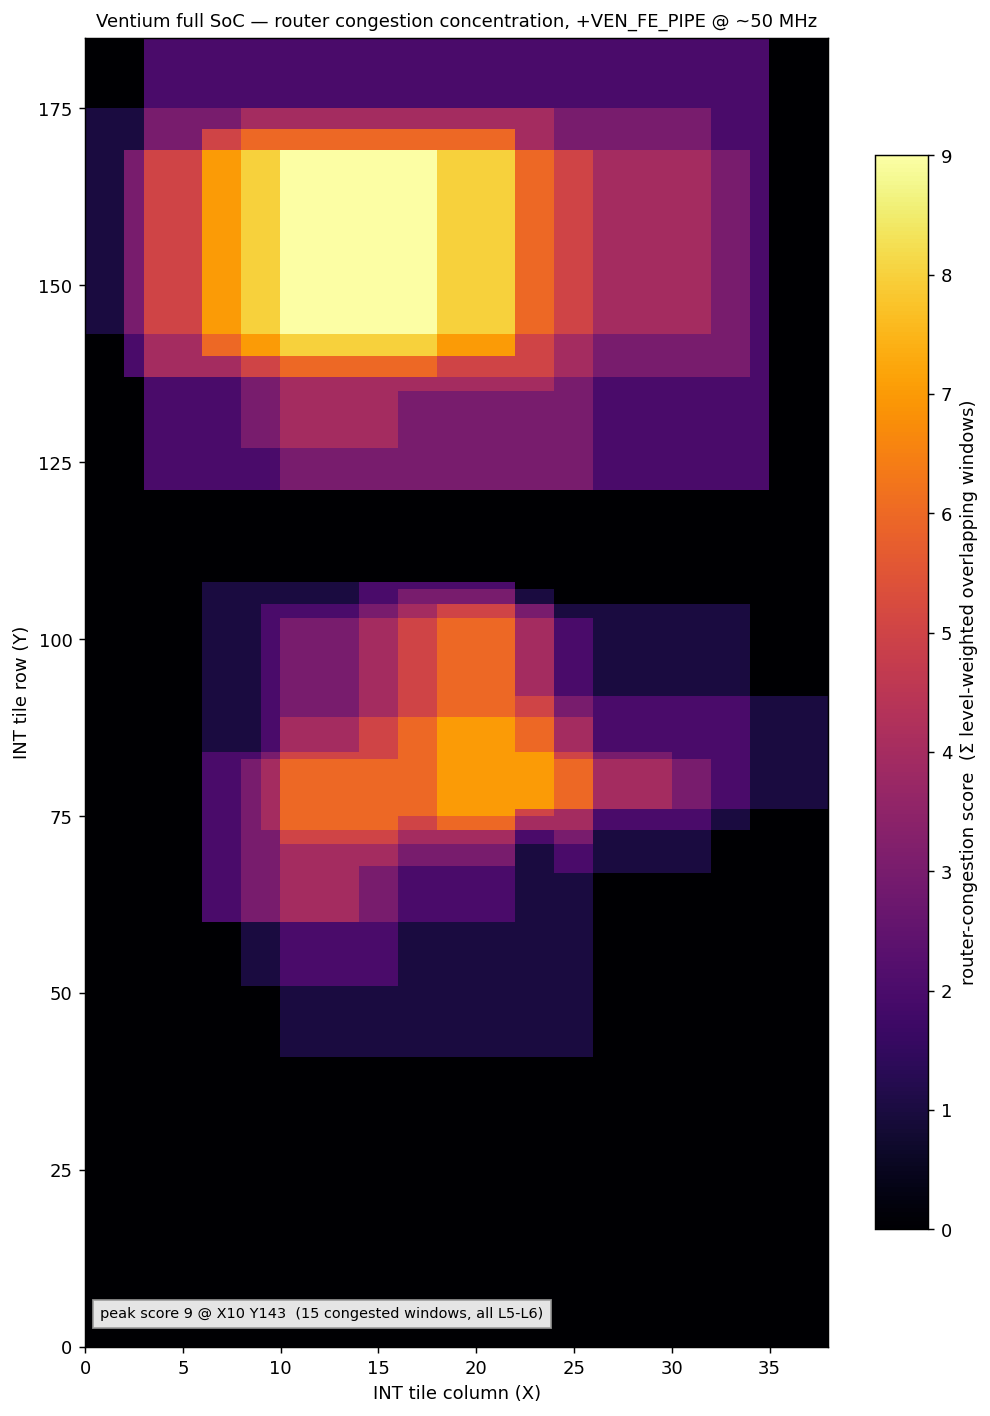
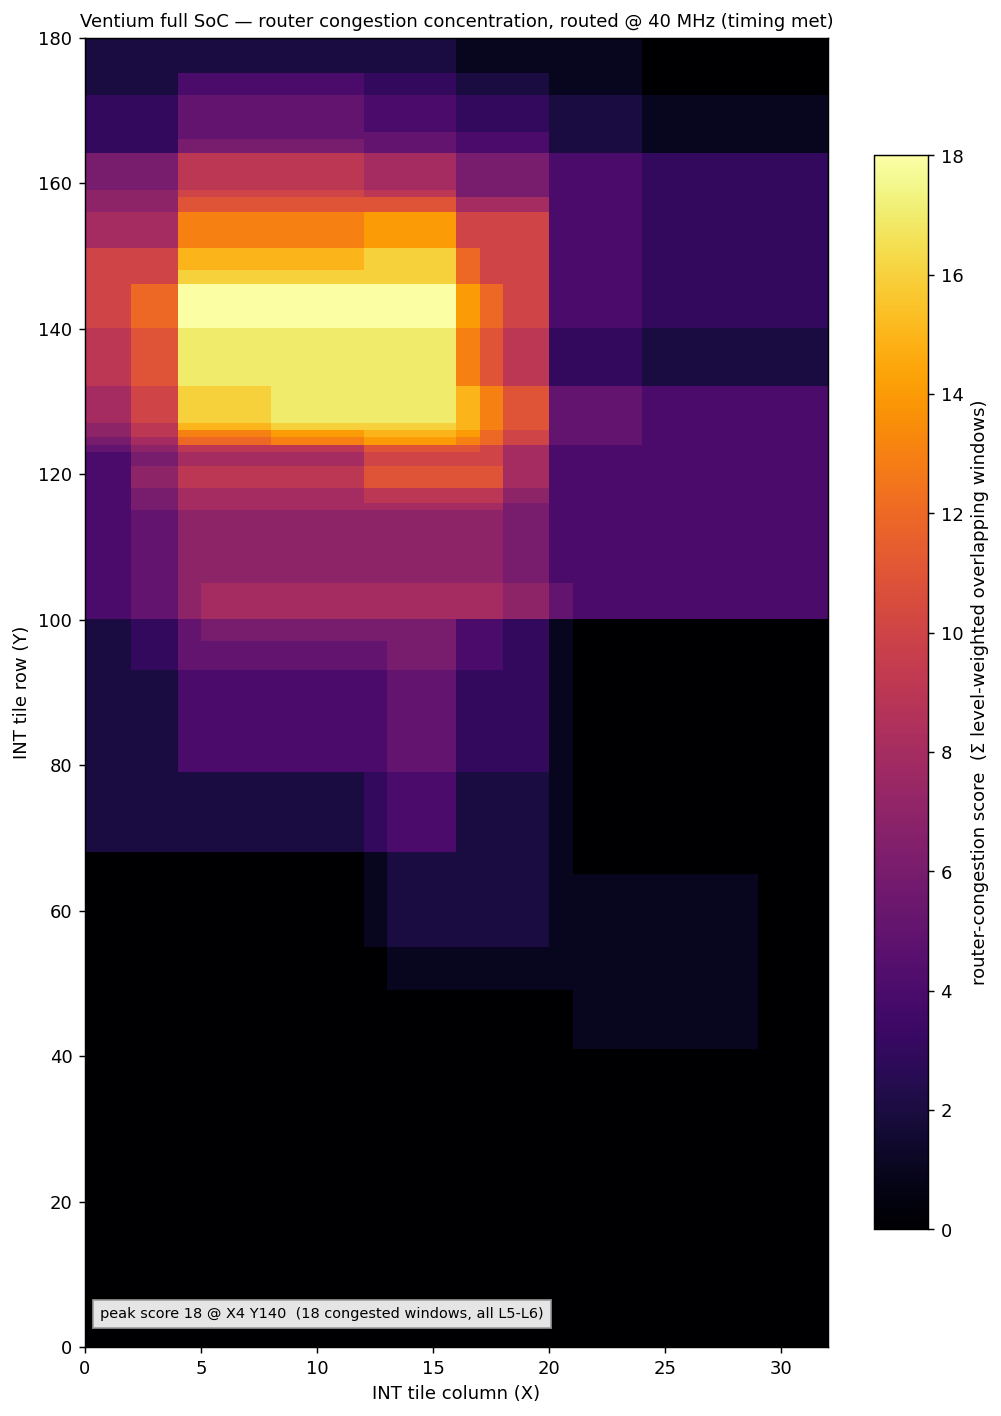
docs: regenerate device views from the linux_40 checkpoint + thorough README update
Device views (same filenames, rendered from the routed 40 MHz linux_40
checkpoint, 155,015 placed cells): full-SoC hierarchy-colored; the CPU-core+FPU-
only view (memory/BD grayed; per-block legend: core spine 40,852 cells, I-cache
22,062, BTB 19,564, FP datapath 16,546, uop-cache 14,757, ...); the outside
(memory/PS/BD) view; placement-density and router-congestion maps (18 L5-L6
windows, icache-dominated — the half-cache/IC-BRAM config moved the pressure).

README (195 -> 301 lines): the 24-gate differential battery; the interactive-
FreeDOS milestone with the verbatim ver/dir screen (195M retired insns / 1.51B
clocks) and the input path; the SS-default bug-archaeology note; the precisely-
scoped F4 status (QEMU-validated disk chain, RTL run in progress — no RTL-Quake
claim); a new KV260 section with the linux_40 utilization/timing table (LUTs
94,712 = 80.9%, FFs 13.3%, BRAM 27.8%, DSP 31, WNS +0.104 ns @ 40 MHz), the
PS-as-I/O-processor architecture (R_INTR seam, --dos routing, hid_kbd, fb_vnc,
venclk), and both SD images (Kria Ubuntu 24.04 primary + baremetal fallback);
M7 Quake lock-step number corrected to 1.83M insns with its boundary caveat;
free-run FPS estimates re-anchored to 40 MHz and flagged as cycle-model
estimates. Hardware status stated plainly throughout: no board attached;
everything structurally verified in simulation/implementation only.

fpga-synthesis.md: the full-SoC section now narrates the 50->40 MHz decision
[…]

diff --git a/README.md b/README.md
@@ -36,11 +36,21 @@ level clone (see [`docs/isa-coverage.md`](docs/isa-coverage.md)
   `POPF`/`IRET` `#DB`) reproduced behind a default-off flag, self-checked against
   the Intel Specification Updates (never against QEMU, which computes correctly).
 - **Macro-workload lock-step (M7)** -- real programs run on the RTL in lock-step
-  vs QEMU: **Quake** is bit-exact over **~1.1M instructions**, and a **Windows 95
+  vs QEMU: **Quake** is bit-exact through **~1.83M instructions** (to a documented
+  QEMU-environment boundary, not a CPU divergence — see below), and a **Windows 95
   boot** is bit-exact to **213,859 instructions** (input-replay: QEMU is the golden
   + environment, the RTL is the checked CPU). This found + fixed **6 real ISA gaps**
   (`TEST r/m,imm` mem-form, `call gs:[]`, `LOCK CMPXCHG`, `IN`/`OUT`, `CPUID`, `INS`).
-- **FPGA full-SoC implementation:** WIP - Targeting KV260 (Xilinx ZU5EV equivalent). The L1$ and peripherals are partially implemented in the PS to save FPGA resources, but the core + FPU are fully RTL.
+- **A self-contained PC SoC (M8/M9/F-track):** PIC/PIT/RTC/i8042/port92/UART/VGA/
+  IDE/DMA/FDC device models, pinned to `qemu-system-i386` by per-record differential
+  gates (`verif/soc/run-all-soc-gates.sh`: **24 gates** = 23 SoC differentials + the
+  external `test386` tester; plus a standalone SeaBIOS boot gate). The **unmodified
+  QEMU SeaBIOS `bios.bin`** completes its full POST on the RTL and boots **FreeDOS to
+  an interactive `C:\>` prompt** — in Verilator simulation (see below).
+- **FPGA full SoC (KV260):** a routed, deployable **40 MHz** bitstream for the Kria
+  KV260 (XCK26) — core + FPU + L1/AXI fully in the PL, the slow peripherals emulated
+  by the PS A53 under Linux. **No board has been attached yet** — the image is
+  structurally verified (timing/DRC/unit gates), not hardware-tested.
 - **PipeViz Visualizer:** A Custom PyQt5-based trace visualizer.
 
 ## Layout
@@ -64,9 +74,12 @@ verif/
                       free-run syscall-emulation; coremark/whetstone/.../Quake)
   sys/                bare-metal system-mode tests + qemu-system goldens
   m7/                 Quake + Win95 lock-step harnesses
-  soc/                device-module unit self-checks
-  bus/                biu_p5 standalone self-consistency + 19 SVA gate
-  errata/             errata self-checks (make m6)
+  soc/                the SoC differential gates (run-all-soc-gates.sh) + unit checks
+  bus/ errata/        biu_p5 standalone + 19 SVA gate; errata self-checks (make m6)
+fpga/               KV260 build scripts (BD + impl → bit/.xsa), the microSD
+                    boot-image pipeline (sd/), timing + architecture notes
+sw/                 PS-side software — ven_soc_app + the HID/VNC daemons (ps/),
+                    the PS-offload peripheral C models (ps_periph/)
 docs/               trace-format.md (the producer/consumer contract), the
                     m*-spec.md design docs, and sphinx/ (the live catalog)
 3rd-party/          opl3_fpga submodule (OPL3 FM synth, for a SoundBlaster card)
@@ -83,9 +96,11 @@ make verify-sys      # system-mode gates (pseg/pmode/ppage/pintr/pfault/pcpl/
                      # ptask/pdebug/pv86 + psmm structural)
 make m1 m2 m3 m4 m5 m6    # per-milestone gates (m3 = x87, m6 = errata behind a flag)
 
-# macro-workload lock-step (oracle-bound prefixes; see docs/m7-lockstep-spec.md):
-bash verif/m7/run-quake-lockstep.sh 1000000     # Quake, 1M-instruction prefix
-bash verif/m7/win95/run-win95-cosim.sh          # Win95 boot prefix
+bash verif/soc/run-all-soc-gates.sh   # the SoC battery: 24 gates (23 per-record
+                                      # qemu-system differentials + test386)
+
+bash verif/m7/run-quake-lockstep.sh 1000000     # macro lock-step (Quake prefix;
+bash verif/m7/win95/run-win95-cosim.sh          #  + Win95 boot — see docs/m7-*)
 
 cd rtl && verilator --lint-only -sv -Wall -Wno-UNUSED -f ventium.f   # lint
 ```
@@ -104,7 +119,10 @@ two ways, both graded against QEMU `-cpu pentium`:
   every retired instruction's full architectural + x87 state is compared vs the
   QEMU gdbstub golden, deep (tens of millions of instructions per config) and
   parallel, with zstd-compressed goldens streamed through `compare_stream.py`
-  (O(1) disk + memory). **18/18 configs are bit-exact (EQUIVALENT).**
+  (O(1) disk + memory). **18 of the 19 configs are bit-exact (EQUIVALENT)**; the
+  19th, a 30M-instruction Quake prefix, is bit-exact through **1.83M instructions**,
+  up to a documented environmental boundary (musl's netlink interface enumeration
+  branches on the host QEMU PID — producer nondeterminism, not a CPU divergence).
 - **Free-run to completion** (`--emulate-syscalls`, `verif/bench/run-freerun.sh`):
   the testbench emulates `int 0x80` directly, so the RTL runs a whole program at
   full Verilator speed, graded by its output vs QEMU-native. **coremark** runs its
@@ -127,11 +145,58 @@ sit lower (multi-cycle `imul`/`FSIN`, U-pipe-only FP, branch mispredicts).
 
 **Quake** (the TyrQuake P5 build) also free-runs on the RTL: it boots fully (pak
 load, palette, renderer) and renders its console frame via the software rasteriser.
-At the FPGA target of **66 MHz** the cycle model estimates **~15 FPS** at 320×200
-(cycles-per-frame), in line with a real Pentium-66. Getting all this clean cost
+From cycles-per-frame the cycle model estimates **~15 FPS** at 320×200 at 66 MHz
+(in line with a real Pentium-66) — **~9 FPS** at the KV260 image's 40 MHz; both are
+cycle-model estimates, not hardware measurements. Getting all this clean cost
 **three fixes**: a CET `endbr32` / multi-byte-NOP decode gap (a real RTL miss,
 regression-tested by `t_endbr`) and two QEMU-golden producer-fidelity bugs
 (`clock_gettime64` capture width, the i386 `recvfrom` syscall number).
+
+## Booting the real PC stack: SeaBIOS → FreeDOS (RTL, Verilator simulation)
+
+The F3 milestone: the **unmodified QEMU SeaBIOS** `bios.bin` (rel-1.16.3) runs its
+entire power-on self-test on the RTL (real → 32-bit protected mode → back, ~5.55M
+instructions), chain-loads via `INT 13h` from the `ven_ide` disk model, and boots
+**FreeDOS** (kernel ke2045, FreeCom 0.86) to an **interactive prompt**. Keystrokes
+(set-1 scancodes injected into the i8042 model by the testbench) traverse the full PC
+input path — i8042 → IRQ1 → 8259 PIC → `INT 9` → BIOS keyboard buffer → FreeCom — and
+the typed commands run through `INT 21h` → FAT16 → IDE, with output drawn by SeaVGABIOS
+`INT 10h` into text VRAM at `0xB8000`. The actual screen, dumped from VRAM at
+**195,000,000 retired instructions / 1,511,243,707 clocks**:
+
+```
+VGA BIOS initialized.
+C:\>ver
+
+FreeCom version 0.86 - WATCOMC - XMS_Swap [Dec 30 2024 22:10:51]
+C:\>dir
+ Volume in drive C is FREEDOS
+ Volume Serial Number is 1C6C-E236
+ Directory of C:\
+
+KERNEL   SYS        48,856  06-11-26 10:55p
+COMMAND  COM        87,772  06-11-26 10:55p
+AUTOEXEC BAT             9  06-12-26 12:24p
+VGAINIT  COM           113  06-12-26  3:32p
+VGABIOS  BIN        38,912  06-12-26 12:24p
+         5 file(s)        175,662 bytes
+         0 dir(s)       2,845,696 bytes free
+C:\>
+```
+
+This is **simulation, not hardware** — and it earned its keep: the boot stalled at
+6.844M instructions on a corrupted kernel, root-caused to the 32-bit ModRM EA decode
+missing the SDM's **SS-segment defaults** for `ESP`/`EBP`-based addressing — SeaBIOS's
+IRQ trampoline `mov ds,[esp+8]` read `DS:` garbage and saved an interrupt frame over
+the freshly loaded `kernel.sys`. QEMU never expresses it (its PIT takes ~zero IRQs in
+that window), and the fix is invisible to every flat-segment gate — the whole battery
+(77/77 + the 24 SoC gates) stayed green throughout.
+
+**F4 (DOS Quake) is in progress — no RTL-Quake claim is made.** A Quake 1.06 shareware
+disk image (official `quake106.zip`: `QUAKE.EXE` + CWSDPMI + `PAK0.PAK` on FreeDOS/FAT16)
+boots fully unattended **under qemu-system** to the in-game `demo1` timedemo — that
+validates the disk/asset/DPMI chain, *not the RTL*. The RTL run of the same image is
+underway and still mid-boot, with no rendered frame yet.
 
 ## FPGA synthesis (KV260)
 
@@ -150,46 +215,87 @@ Headline OOC `core` results (`xck26-sfvc784-2LV-c`, `+VTM_NO_DPI`, 15 ns target)
 | `+VEN_FP_PIPE2` (2-stage FADD commit) | 76.7k (65%) | 25.8k | 40 | 31 | 78.4 | 63.0 MHz | `u_bcd` (FBSTP) engine |
 | **+ BCD ÷100 step** (`ven_bcd`, opt-in `+VEN_BCD_DIV100`) | 76.6k (65%) | 25.8k | 40 | 31 | 80.6 | **65.3 MHz** | µop-cache fill→front-end |
 
-Three architectural walls, broken in turn. (1) The **single-cycle x86 byte-window
-decoder** (`u_icache` MUXF cluster) — the µop-cache deletes it (predecode-on-fill, slot
-reads), the first config to route legally. (2) The **latency-1 ~80-level FADD
-deferred-commit cone** (`fpp → fx_round_pack → fpr`): `+VEN_FP_PIPE2` splits it across the
-FP scoreboard's existing 3-cycle latency window (the result still publishes at issue+lat),
-so it is **cycle-safe** — `make verify` GREEN, the M5 FP cycle bands held, default build
-byte/cycle-identical (`make verify-fppipe2`). (3) The **FBSTP BCD engine** (`u_bcd`): one
-÷100 per step instead of two chained ÷10 halves its cone — bit-exact + cycle-neutral
-(`make verify-bcd`). That takes the K26 to **65.3 MHz** (`ExtraNetDelay_high`); the wall is
-now the µop-cache fill→front-end cluster (route-bound — the diffuse-congestion case the
-docs flag for in-context floorplanning).
+Three architectural walls, broken in turn: the **single-cycle x86 byte-window decoder**
+(deleted by the µop-cache — predecode-on-fill, the first config to route legally); the
+**latency-1 ~80-level FADD deferred-commit cone** (split **cycle-safely** across the FP
+scoreboard's existing 3-cycle latency window by `+VEN_FP_PIPE2` — `make verify` GREEN, M5
+FP bands held, default build byte/cycle-identical); and the **FBSTP BCD engine** (one ÷100
+per step instead of two chained ÷10 — bit-exact + cycle-neutral). That takes the K26 core
+to **65.3 MHz**; the remaining wall is route-bound µop-cache fill→front-end congestion.
 
-**Full SoC, in-context → deployable bitstream.** The numbers above are out-of-context (the
-`core` alone). The actual KV260 image wraps the core + FPU with the L1/AXI memory subsystem
-(→ PS-DDR), the `ven_soc_axil` PS bridge, and the BD interconnect, placed against the PS8 and
-routed to a **bitstream + `.xsa`**. In context the **`eip`/TLB fetch cone** binds: the SoC will
-**not legally route** at 60 MHz (8766 node overlaps) until **`+VEN_FE_PIPE`** — a page-keyed
-micro-TLB that registers the current page's translation so steady-state fetch stops re-walking the
-TLB compare (1-cycle stall only on a page crossing; `ifdef`-gated, default build cycle-identical).
-With it, the full SoC routes clean at **WNS −3.195 ns → ~50.4 MHz** (the translate cone leaves the
-critical path; the new worst path is the same µop-cache fill→`eip` cluster, route-bound).
+**Full SoC, in-context → deployable bitstream.** The numbers above are out-of-context.
+The actual KV260 image adds the L1/AXI memory subsystem (→ PS-DDR), the `ven_soc_axil`
+PS bridge, and the BD interconnect, routed to a **bitstream + `.xsa`**. In context the
+`eip`/TLB fetch cone binds: the SoC does not legally route at 60 MHz until
+**`+VEN_FE_PIPE`** — a page-keyed micro-TLB (1-cycle stall only on a page crossing;
+`ifdef`-gated, default build cycle-identical) — after which it routes clean at **~50.4 MHz**.
 
-**Deployable clock = 50 MHz.** A 60 MHz full-SoC close is *not feasible on the XCK26* — the small
-ZU5EV die runs ~68–71 % LUT and the remaining wall is diffuse fill→`eip` routing congestion, not a
-cone P&R or floorplanning can shorten (the OOC ceiling is 65.3 MHz; the full SoC's extra L1/AXI + BD
-fabric costs the rest). So the board image targets **`pl_clk0` = 50 MHz**, which the `+VEN_FE_PIPE`
-build closes with positive margin. A larger part (e.g. the ZU15EG) would clear 60+; on the K26, 50 MHz
-is the deployable result.
+**Deployable clock = 40 MHz.** A 60 MHz full-SoC close is *not feasible on the XCK26* (the
+OOC ceiling is 65.3 MHz; the SoC's extra fabric leaves diffuse fill→`eip` congestion no
+floorplan clears). The FE_PIPE build closed 50 MHz until the F3 ISA-completeness work
+(16-bit ModRM EAs, FF-group far forms, interruptible `HLT`, real-mode IVT delivery) cost
+~3.5 ns on the high-fanout µop-cache fill net (WNS −3.225 ns, ~43 MHz achievable). The
+shipped image targets **`pl_clk0` = 40 MHz**, routed at **WNS +0.104 ns** (timing met); the
+PS owns the PL clock, and `venclk.sh` can step it 40 → 50 MHz on silicon with a firmware
+smoke test per step. A larger part (e.g. the ZU15EG) would clear 60+.
 
 ![Ventium full SoC placed on the KV260, colored by RTL module](docs/fpga-device-view-soc.png)
 
-📄 **Full results, device views, congestion maps, the full-SoC `+VEN_FE_PIPE` image, the ZU15EG +
-half-cache + FP_PIPE2 experiments, and methodology:** [`docs/fpga-synthesis.md`](docs/fpga-synthesis.md) ·
+📄 **Full results, device views (incl. the core-only crop
+[`fpga-device-view-soc-core.png`](docs/fpga-device-view-soc-core.png) and the non-core fabric
+[`-soc-outside`](docs/fpga-device-view-soc-outside.png)), congestion maps, the ZU15EG + half-cache +
+FP_PIPE2 experiments, and methodology:** [`docs/fpga-synthesis.md`](docs/fpga-synthesis.md) ·
 [`fpga/TIMING_PROBLEMS.md`](fpga/TIMING_PROBLEMS.md).
+
+## The KV260 board image
+
+The current deployable build (`fpga/build/kv260_soc_impl_linux_40/`, config = µop-cache +
+half-cache + FP_PIPE2 + FE_PIPE) is routed to a bitstream + `.xsa`, post-route:
+
+| Resource (XCK26) | Used | Available | Util |
+|---|---:|---:|---:|
+| CLB LUTs | 94,712 | 117,120 | 80.9 % |
+| CLB registers | 31,208 | 234,240 | 13.3 % |
+| Block RAM tiles | 40 | 144 | 27.8 % |
+| DSPs | 31 | 1,248 | 2.5 % |
+
+Timing at `pl_clk0` = **40 MHz** (25.000 ns): setup **WNS +0.104 ns**, hold WHS +0.008 ns,
+**0 failing endpoints** of 112,136; DRC carries advisory warnings only (DSP-pipelining
+suggestions). The design occupies 98.3 % of the CLBs — the diffuse-congestion regime
+described above. Reports (`timing_impl.rpt`/`util_impl.rpt`/`drc_impl.rpt`) are on disk.
+
+**Architecture: the PS as the I/O processor.** Only the latency-critical elements live
+in the PL: core + FPU, L1 + AXI master into the PS DDR (carveout at `REMAP_BASE =
+0x4000_0000`), and the `ven_soc_axil` control slave. The slow PC peripherals run as
+**C models on the A53 under Linux** — the same C models the `ps-cosims` gate holds to
+*C model == RTL == qemu*. `ven_soc_app --dos` routes the PIC, i8042 and VGA-register
+ports to the PS and injects interrupts through the `R_INTR` seam (the PS stages
+{vector, level}; the core's INTA strobe auto-clears it and latches a sticky `INTA_SEEN`
+bit, mirroring the 8259's INTA boundary); `hid_kbd` turns USB-keyboard evdev events
+into set-1 scancodes; `fb_vnc` serves the mode-13h framebuffer + live DAC palette over
+VNC (a dependency-free RFB 3.3 server).
+
+Two flashable microSD images exist:
+
+- **Primary — Kria Ubuntu 24.04** (`ventium_kv260_ubuntu.img`, built out-of-repo in
+  `ventium-refs/kria-ubuntu/`): the stock Kria server image with the Ventium package
+  injected (bitstream + `ven_soc_app`/`hid_kbd`/`ven_fb_vnc`/`venclk.sh`); SSH and
+  USB-HID work out of the box.
+- **Baremetal** (`fpga/sd/`, no PetaLinux): `BOOT.BIN` = FSBL + PMUFW + bitstream +
+  `ven_boot.elf` on FAT32; an IDENT smoke test, then the gate-proven COM1-banner
+  firmware on the UART1 (MIO36/37) console.
+
+**Hardware status, stated plainly: no board has been attached.** Everything in this
+section is *structural* evidence (routed timing, DRC, the unit-gated register seam,
+host-smoke-tested daemons) — none of it has yet executed on silicon.
 
 ## Status
 
-The planned roadmap is **complete** — M0–M6, the M2S.0–.6 system-mode track + the
-M2S.4b hardware task switch, M5B + its M5B-int integration, the M6B system errata,
-and the R1/R2 RTL refactors. **M7** (macro-workload lock-step — Quake + Win95)
-landed, and **M8** (the self-contained SoC) is in progress. See
-[`PROGRESS.md`](PROGRESS.md) and [`PROGRESS_Jun04.md`](PROGRESS_Jun04.md) for the
-full, dated detail.
+The original roadmap (M0–M6, the M2S system-mode track, M5B, M6B, R1/R2) is
+**complete**, as are **M7** (macro-workload lock-step), **M8–M9.5** (the
+self-contained PC SoC + first boot), **M11** (x87 transcendentals) and the
+benchmark stack (M13/M14). On the F-track, **F2** (boot firmware) and **F3**
+(interactive FreeDOS) are done *in Verilator simulation*, and the **40 MHz KV260
+board image** is built and structurally verified; **F4** (DOS Quake on the RTL) is
+in progress. See [`PROGRESS.md`](PROGRESS.md) and
+[`PROGRESS_Jun04.md`](PROGRESS_Jun04.md) for the full, dated detail.

diff --git a/docs/fpga-synthesis.md b/docs/fpga-synthesis.md
@@ -226,7 +226,7 @@ STRAT=fp2b_netdelay PLACE_DIR=ExtraNetDelay_high ROUTE_DIR=Explore`; `make verif
 > before `u_bcd` does — so the default leaves it off (back to two chained ÷10), keeping `u_bcd`
 > smaller where it isn't critical. Both forms are bit-exact (`make verify-bcd` either way).
 
-## Full SoC, in-context: the front-end pipeline (`+VEN_FE_PIPE`) → ~50 MHz
+## Full SoC, in-context: the front-end pipeline (`+VEN_FE_PIPE`) → the deployable image
 
 Everything above is **out-of-context** (the `core` alone, virtual I/O). The deployable image is
 the **full KV260 block design**: the core + FPU wrapped with the **L1/AXI memory subsystem**
@@ -273,18 +273,30 @@ is `u_uopcache/store_bmap → eip_reg[26]` (19.81 ns, **62 % routing** / 38 % lo
 **route-bound, not logic-bound** — diffuse fill→`eip` routing congestion at ~68–71 % LUT, not a cone
 P&R or floorplanning can shorten.
 
-**Decision: 50 MHz is the deployable target on the XCK26; 60 MHz is dropped as infeasible.** The
-OOC core ceiling is 65.3 MHz, but the full SoC's extra L1/AXI + BD interconnect spends the margin,
-and the residual congestion is diffuse (not a single cone), so no realistic in-context floorplan
-closes 60 on this small ZU5EV die. `pl_clk0` is set to **50 MHz** (`impl_kv260_soc.tcl`), which the
-`+VEN_FE_PIPE` build routes with positive WNS — a clean, timing-met board image. A larger part (the
-ZU15EG, which clears the OOC build comfortably) would reach 60+; on the K26, **50 MHz is the result
-we keep.**
+**Decision history: 60 MHz dropped as infeasible; 50 MHz closed; the F3 boot-ISA growth then
+moved the deployable to 40 MHz.** The OOC core ceiling is 65.3 MHz, but the full SoC's extra
+L1/AXI + BD interconnect spends the margin, and the residual congestion is diffuse (not a single
+cone), so no realistic in-context floorplan closes 60 on this small ZU5EV die. The `+VEN_FE_PIPE`
+build first closed **50 MHz** (WNS +0.19 ns — razor thin). The F3 real-mode decode work (16-bit
+ModR/M EA, FF-group far transfers, SS-defaults, a16 string semantics) then grew the decoder
+enough that the same high-fanout `u_uopcache/store_bmap` net routes ~3.5 ns slower and 50 MHz
+stopped closing (WNS −3.2 ns). `pl_clk0` is now **40 MHz** (`PL0_MHZ`, `impl_kv260_soc.tcl`),
+which routes with margin. A larger part (the ZU15EG, which clears the OOC build comfortably)
+would hold 60+; on the K26, **40 MHz is the deployable we keep** — with `sw/ps/ven_soc_app/
+venclk.sh` as the PS-side silicon-margin probe (steps the PL0 divider 40→50 MHz with a
+gate-proven firmware smoke test per step).
+
+**The current deployable** (`fpga/build/kv260_soc_impl_linux_40/`, the image the SD cards carry —
+uop-cache + IC-BRAM + half-cache + FP_PIPE2 + FE_PIPE + L1_AXI + the PS→core IRQ seam, with
+`REMAP_BASE=0x4000_0000`): routed at the 40 MHz target with **WNS +0.104 ns / WHS +0.008 ns, 0
+failing endpoints** — CLB LUTs **94,712 / 117,120 (80.9 %)**, registers 31,208 (13.3 %), BRAM 40
+(27.8 %), DSP 31 (2.5 %), CLB occupancy 98.3 %. The device views below are rendered from this
+routed checkpoint.
 
 Every leaf cell of the routed full SoC, colored by RTL module (core blocks + the L1/AXI + PS-bridge
 + BD interconnect that OOC views omit):
 
-![Ventium full SoC on the KV260, +VEN_FE_PIPE routed ~50 MHz, colored by module](fpga-device-view-soc.png)
+![Ventium full SoC on the KV260, routed @ 40 MHz, colored by module](fpga-device-view-soc.png)
 
 The two halves separated — the CPU core + FPU (memory/BD grayed), and the memory/PS/BD outside it
 (core grayed):
